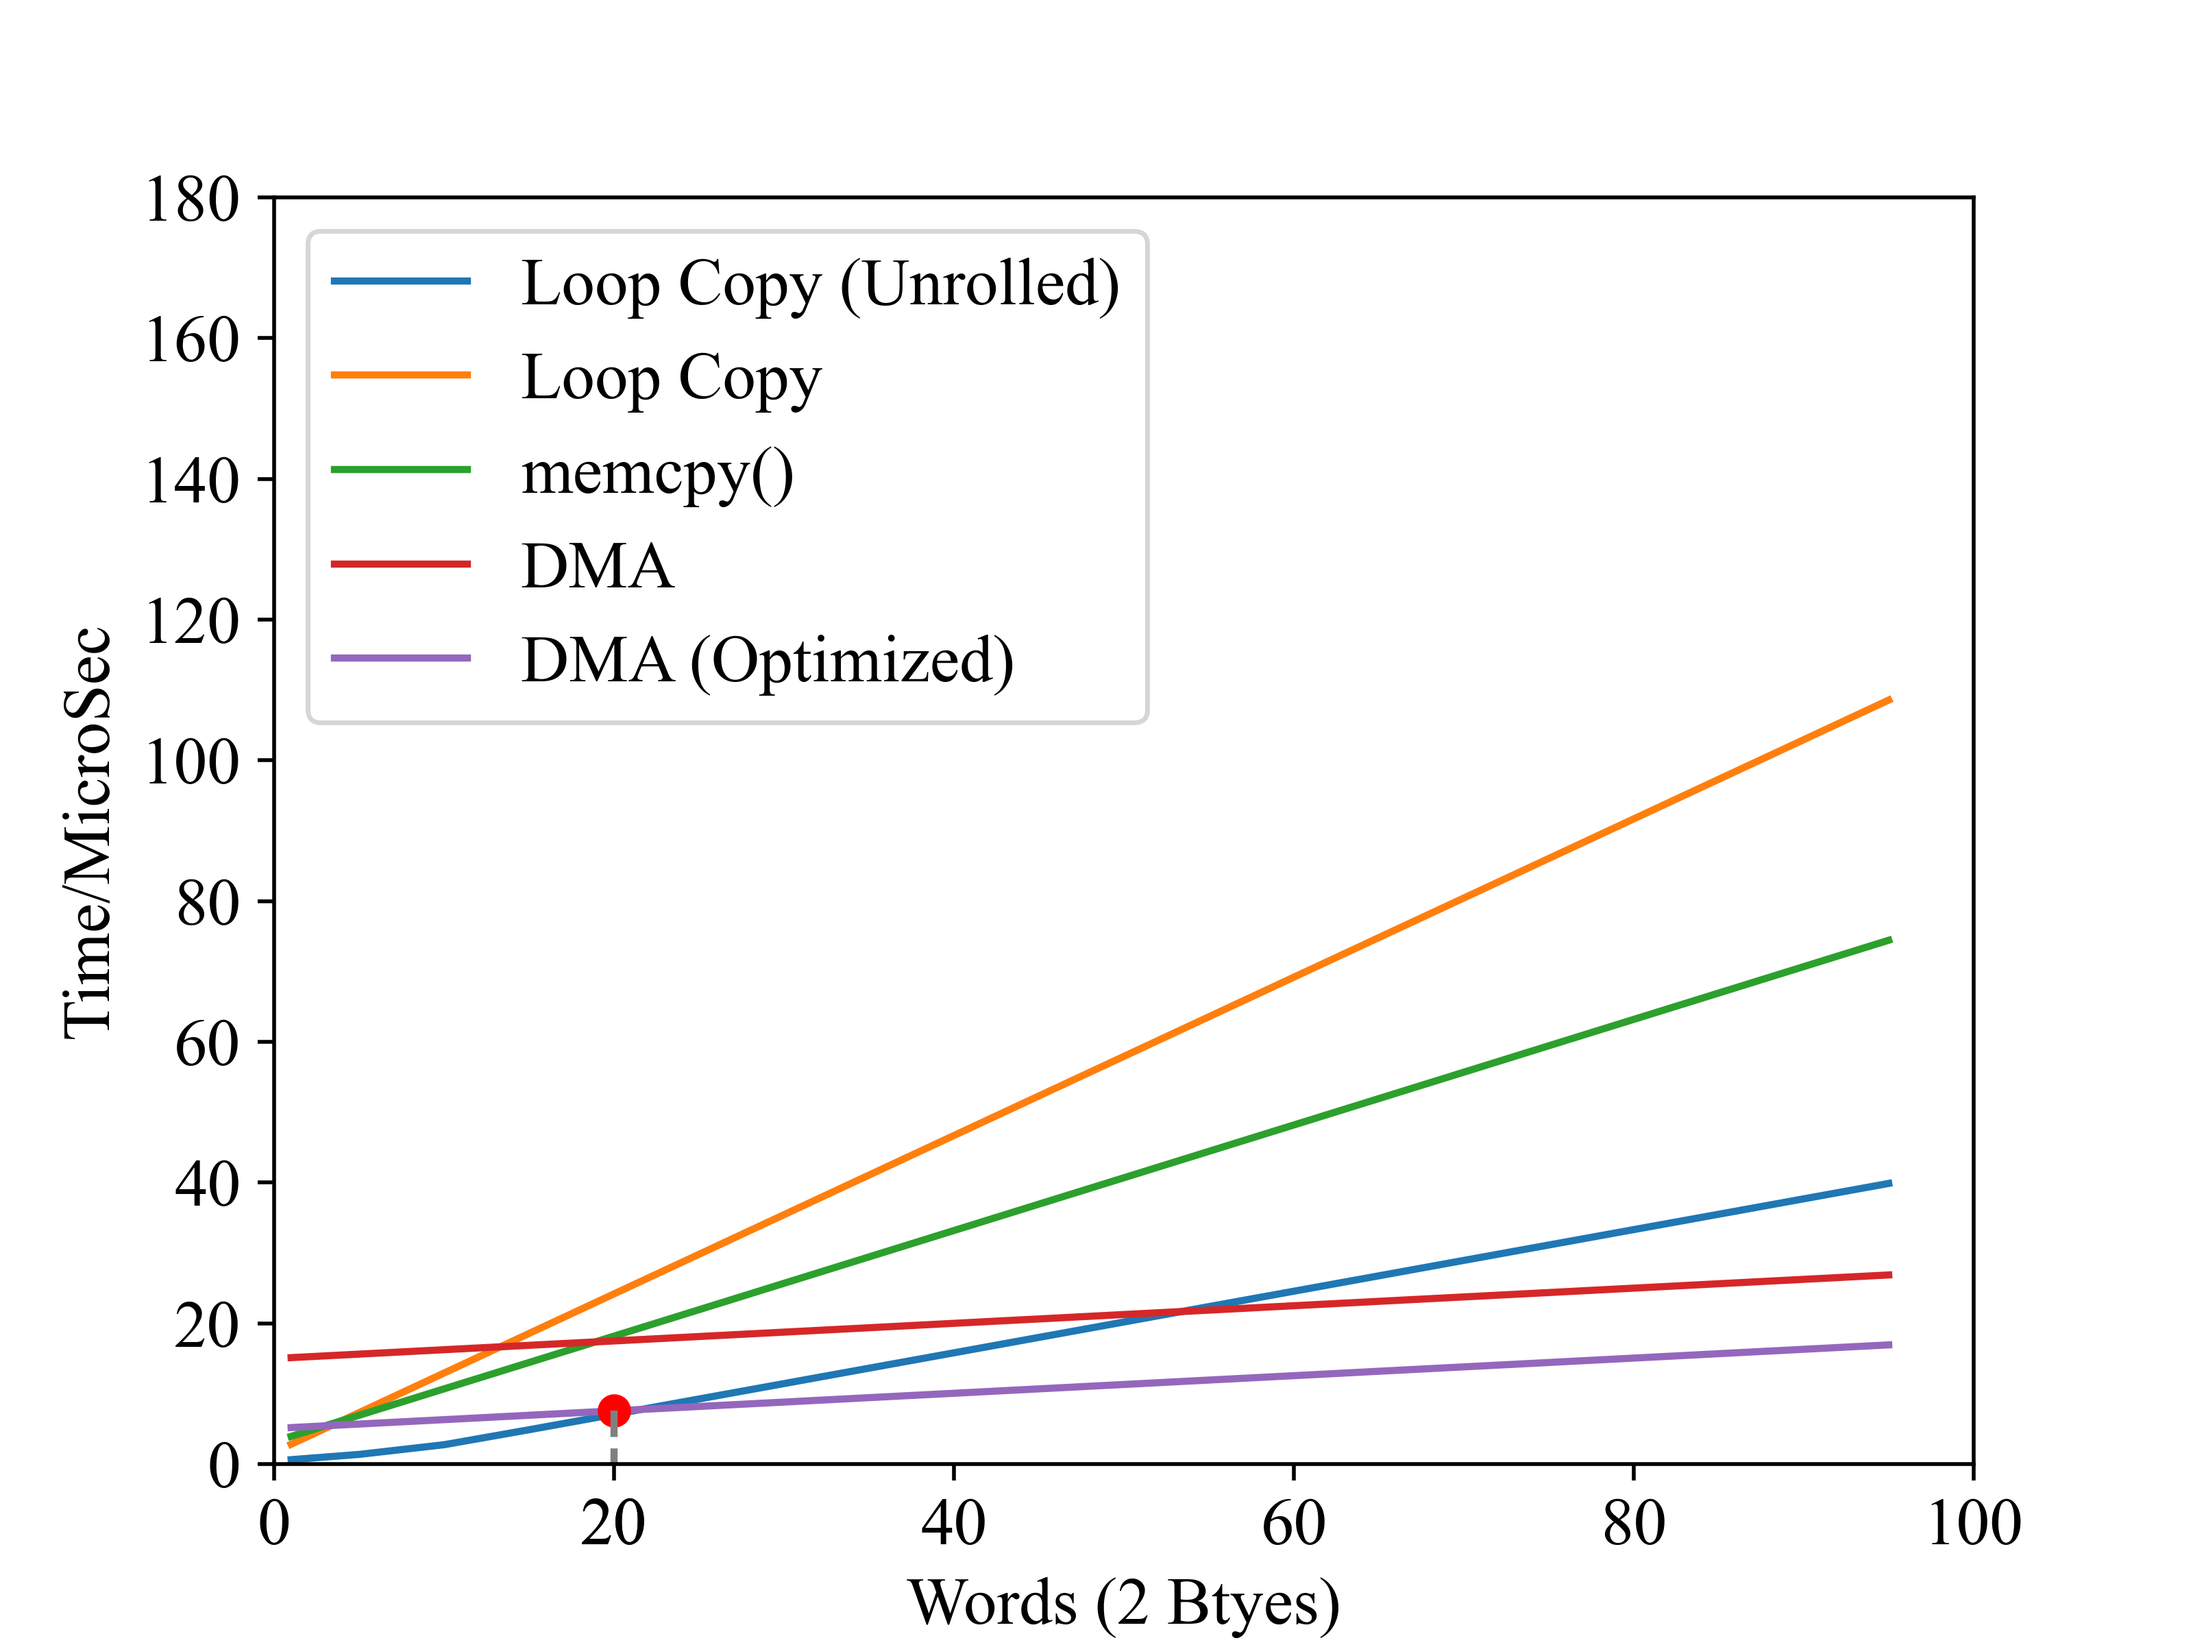
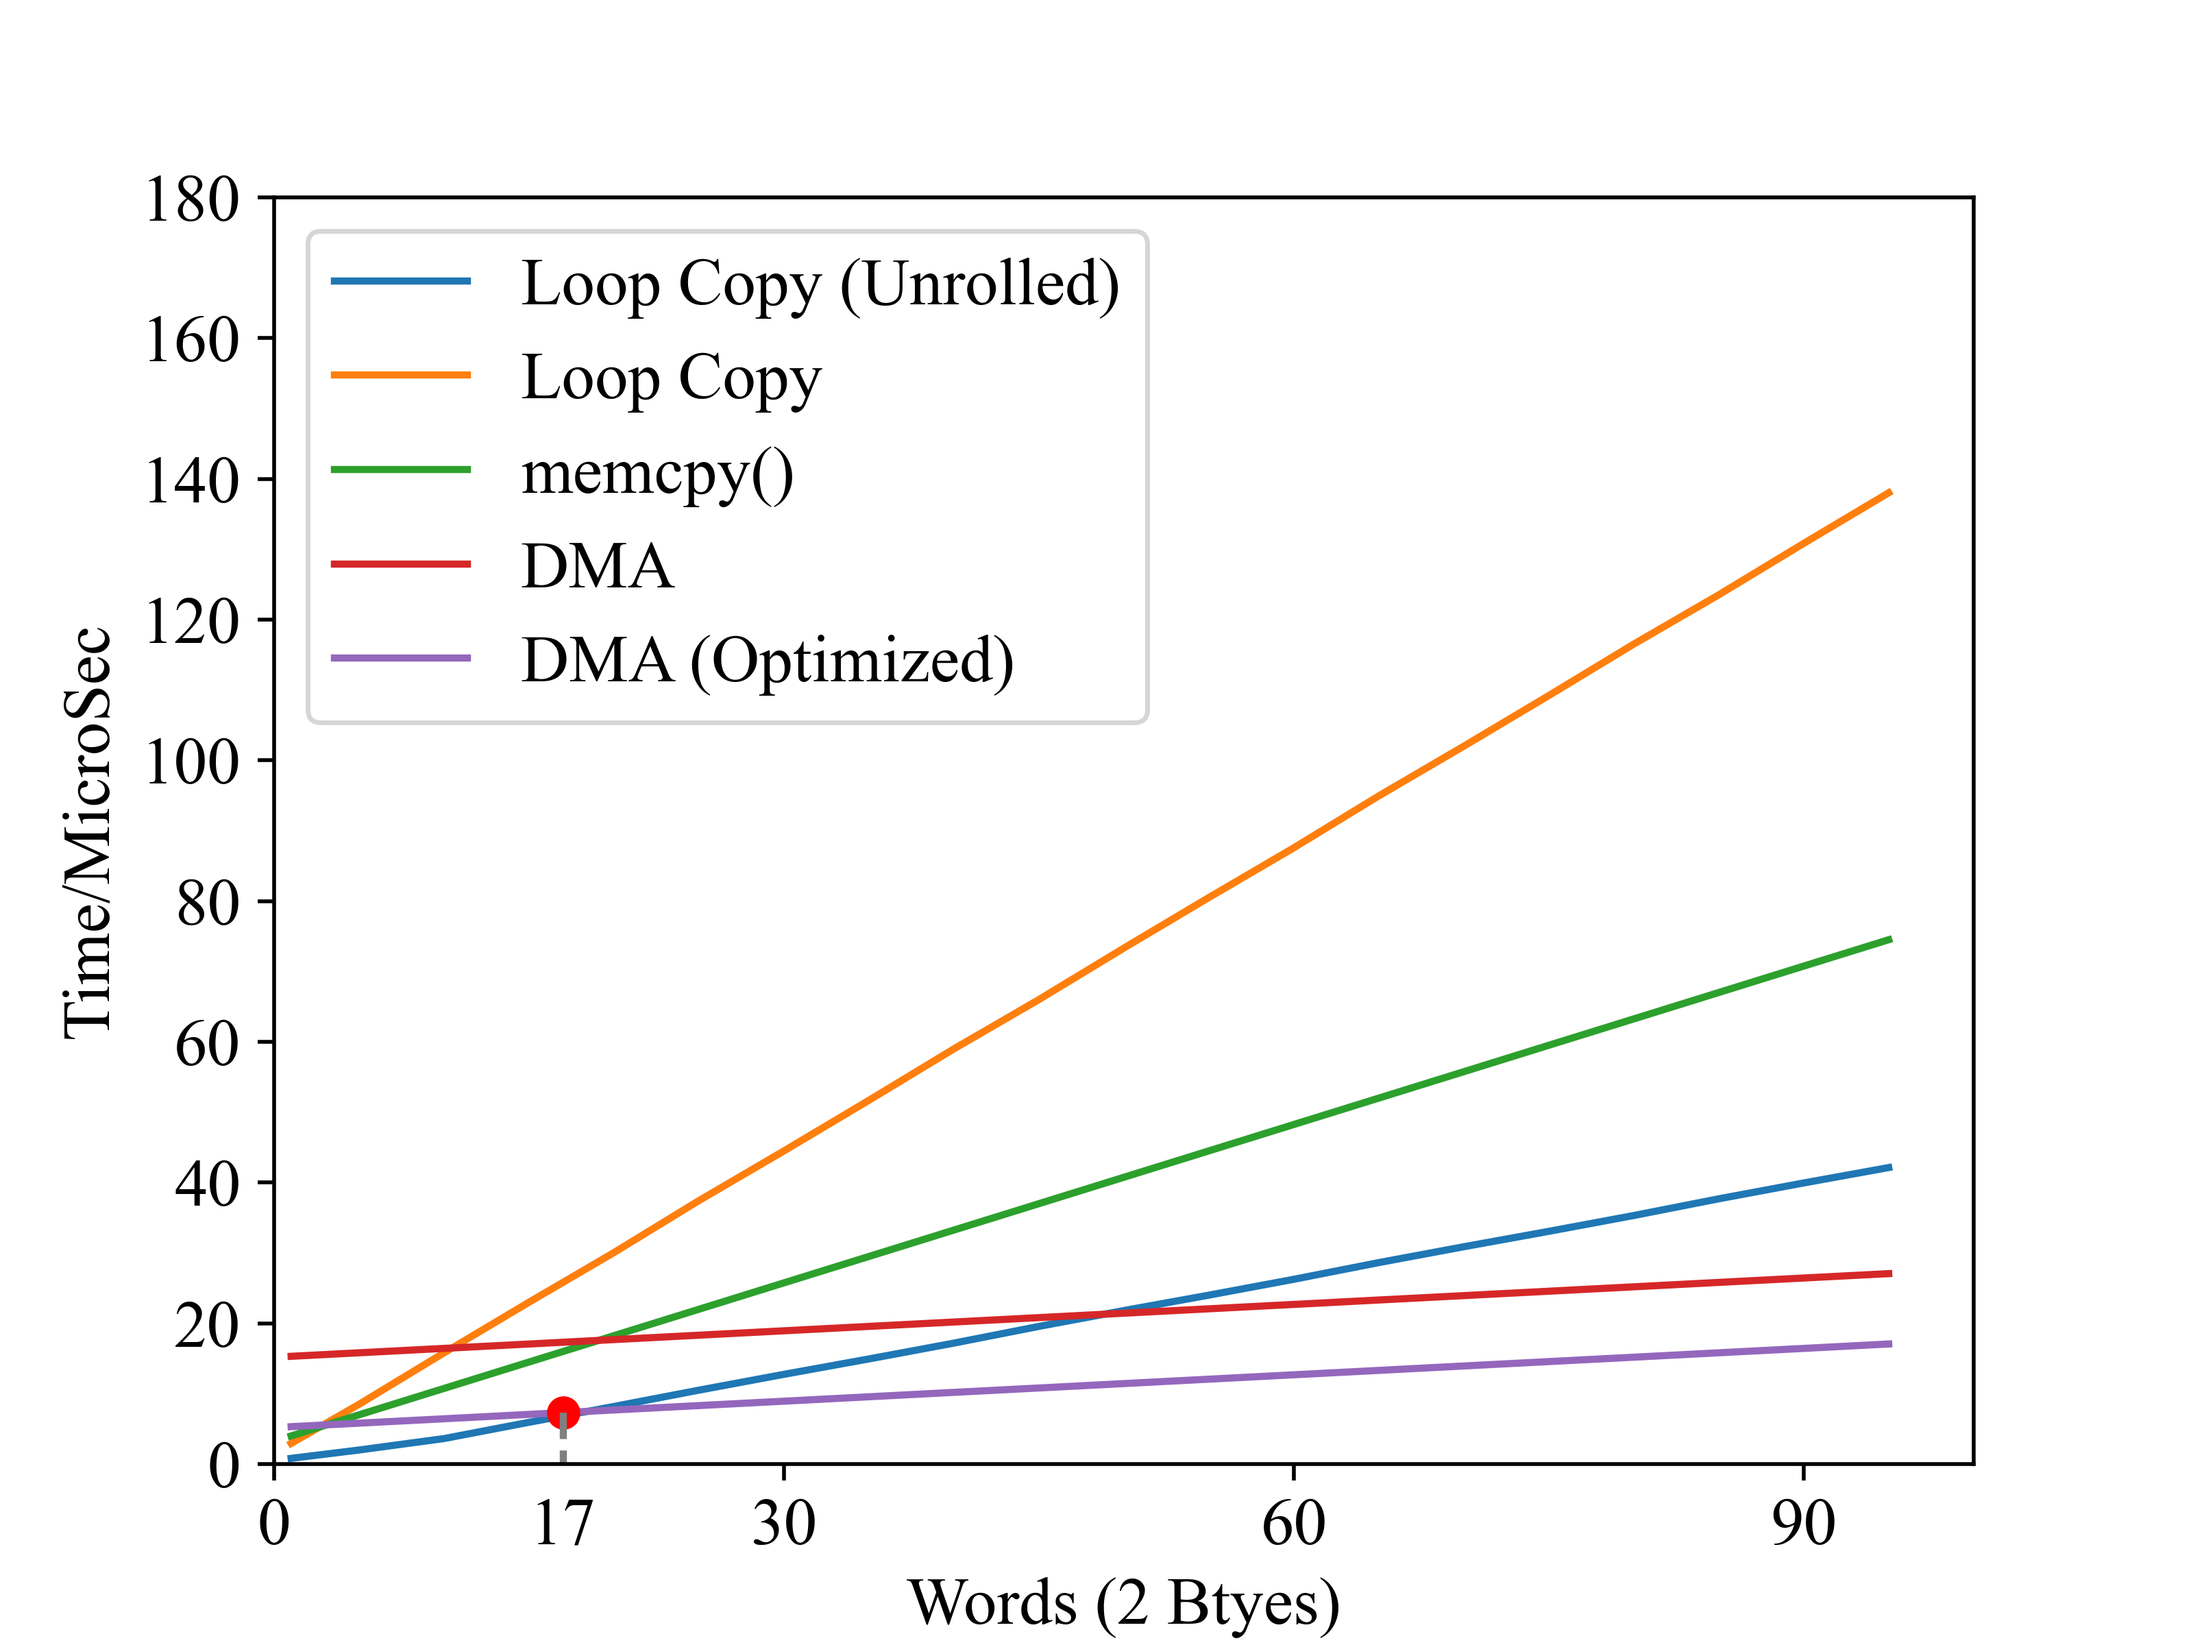
update plot

diff --git a/apps/memcpy/src/main.c b/apps/memcpy/src/main.c
@@ -14,7 +14,7 @@
 #define REPEAT 10000
 
 DSPLIB_DATA(buffer, 2) _q15 buffer_lea[SIZE];
-volatile _q15 volatile_buffer_cpu[SIZE];
+volatile __ro_hinv _q15 volatile_buffer_cpu[SIZE];
 _q15 buffer_cpu[SIZE];
 
 DMA_initParam dma_config;

diff --git a/apps/memcpy/plot.py b/apps/memcpy/plot.py
@@ -72,4 +72,6 @@ ax.text(x_intersection, -0.026, f'{x_intersection}', horizontalalignment='center
 
 ax.legend()
 
+plt.xticks(np.arange(0, 100, 30))
+
 plt.savefig('data_movement.png', dpi=500)
